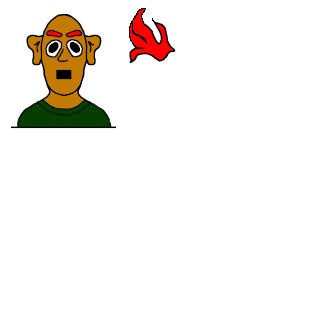
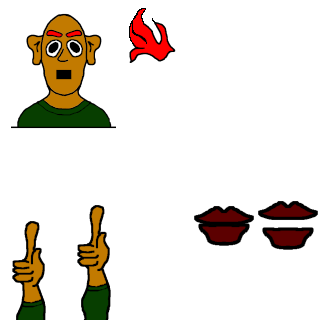
changed ffguy sheet to include mouth and hand cells

Changed region(s): [[0.5938, 0.625, 1.0, 0.7812], [0.2188, 0.625, 0.3438, 1.0], [0.0312, 0.6875, 0.1562, 1.0]]

diff --git a/demos/chicken-cooker-fun-facts/js/fun-facts.js b/demos/chicken-cooker-fun-facts/js/fun-facts.js
@@ -4,7 +4,7 @@
     var FF_X_START = -400,
     FF_X_DELTA = 620,
     FF_PPS = 512,
-    FF_LEAVE_DELAY = 5,
+    FF_LEAVE_DELAY = 10,
     SAY_WIDTH = 40; // amount of time until the guy will leave
 
 
@@ -12,7 +12,7 @@
         idle: {
             key: 'idle',
             condition: function(funFacts){
-                return funFacts.idleSecs >= 5;
+                return funFacts.idleSecs >= 1;
             },
             says: [
                 'This is \"chicken cooker fun facts\" to play just click or touch the canvas to start cooking chickens'
